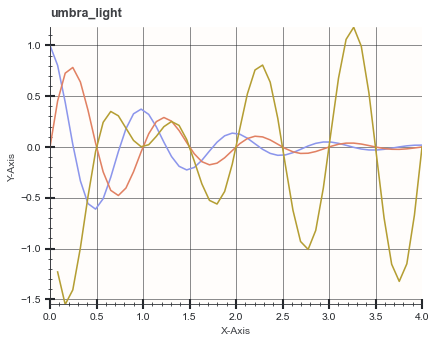
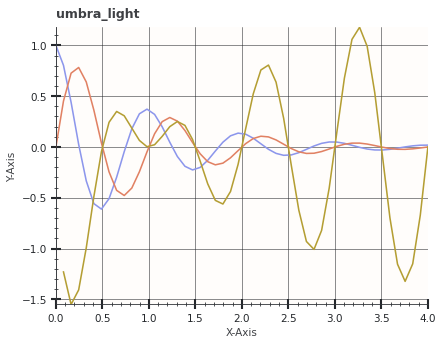
Add scientific theme

Changed region(s): [[0.0596, 0.0292, 0.9839, 0.9913], [0.0, 0.4373, 0.0298, 0.5248]]

diff --git a/README.md b/README.md
@@ -83,11 +83,12 @@ theme = load_theme("arctic_light").set_overrides({
 ## Themes
 | Name            | Description                                                                                      | Preview                       |
 |:----------------|:-------------------------------------------------------------------------------------------------|:------------------------------|
-| `arctic_dark`   | Frosty dark theme based on the  [nord](https://github.com/arcticicestudio/nord) color scheme                                            | ![](assets/arctic_dark.png)   |
-| `arctic_light`  | Frosty dark theme based on the  [nord](https://github.com/arcticicestudio/nord) color scheme                                                            | ![](assets/arctic_light.png)  |
+| `arctic_dark`   | Frosty dark theme based on the  [nord](https://github.com/arcticicestudio/nord) color scheme     | ![](assets/arctic_dark.png)   |
+| `arctic_light`  | Frosty dark theme based on the  [nord](https://github.com/arcticicestudio/nord) color scheme     | ![](assets/arctic_light.png)  |
 | `boxy_dark`     | Dark theme with enclosing box and grid                                                           | ![](assets/boxy_dark.png)     |
 | `boxy_light`    | Light theme with enclosing box and grid                                                          | ![](assets/boxy_light.png)    |
 | `minimal_dark`  | Dark theme with minimal visual elements                                                          | ![](assets/minimal_dark.png)  |
 | `minimal_light` | Light theme with minimal visual elements                                                         | ![](assets/minimal_light.png) |
+| `scientific`    | Space-efficient and color-blind friendly theme for printing on paper                             | ![](assets/scientific.png)    |
 | `umbra_dark`    | Balanced dark theme based on the [penumbra](https://github.com/nealmckee/penumbra) color scheme  | ![](assets/umbra_dark.png)    |
 | `umbra_light`   | Balanced light theme based on the [penumbra](https://github.com/nealmckee/penumbra) color scheme | ![](assets/umbra_light.png)   |
